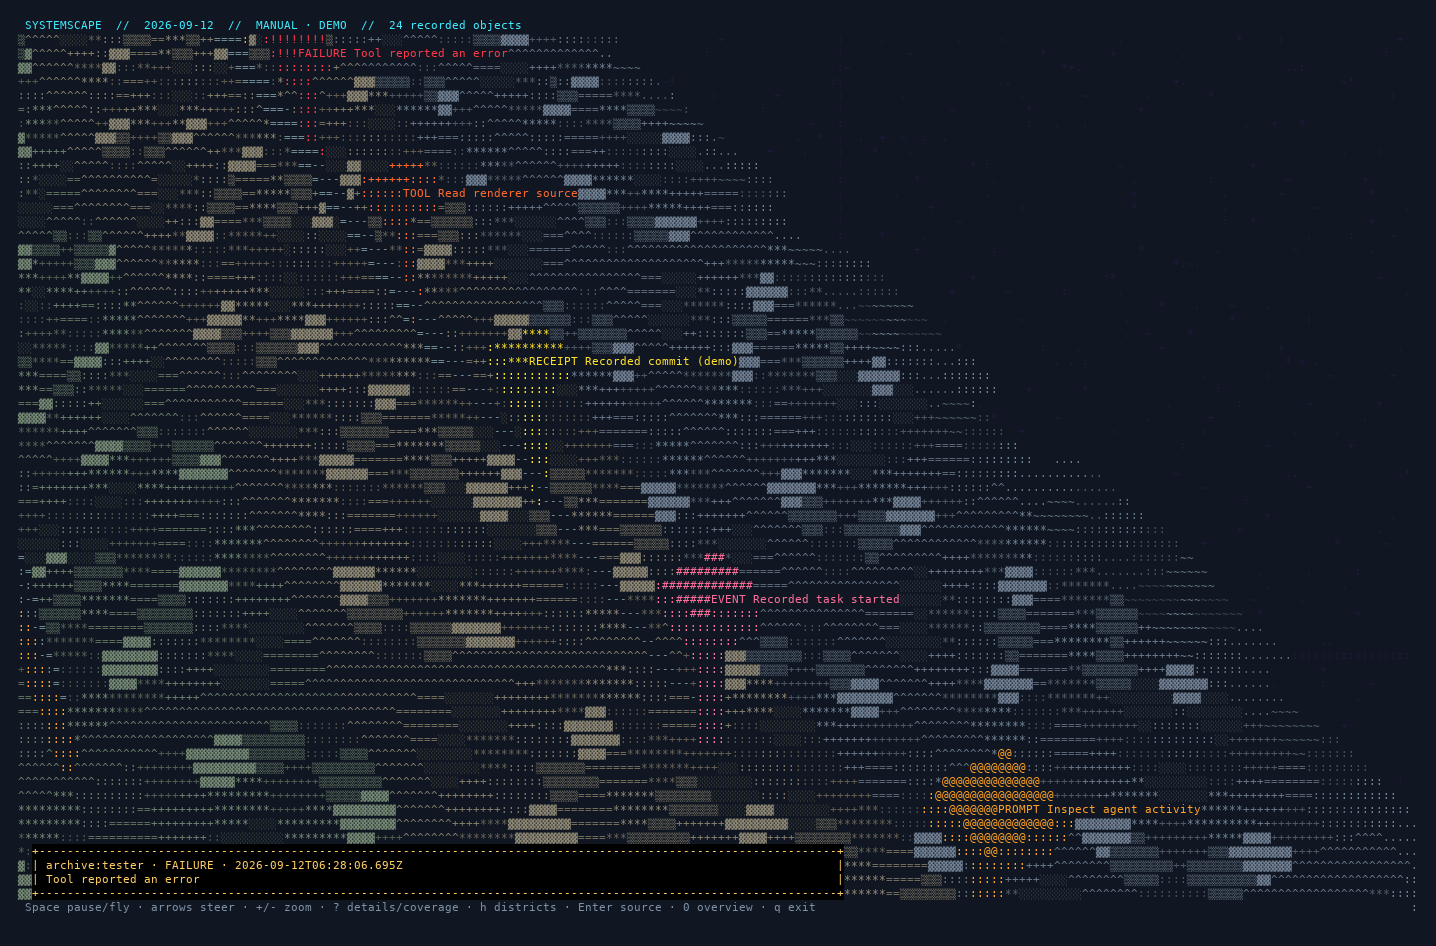
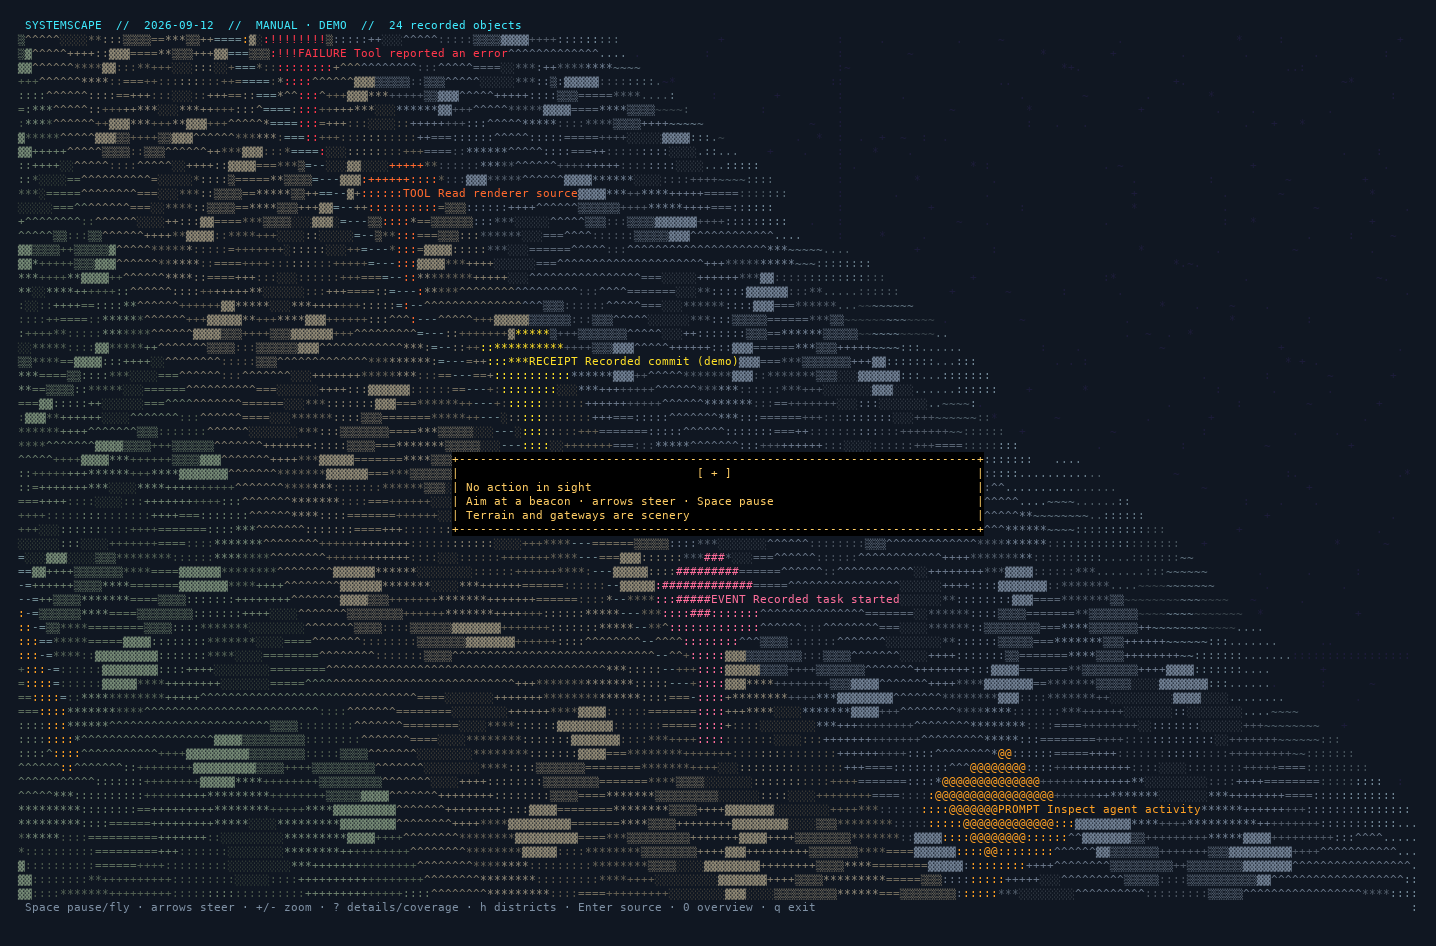
Add centre action reticule and buffered terminal row updates

Changed region(s): [[0.3064, 0.4598, 0.7047, 0.5825], [0.0, 0.8277, 0.6128, 0.9503], [0.1226, 0.6438, 0.1532, 0.6744]]

diff --git a/src/activity.rs b/src/activity.rs
@@ -7,7 +7,7 @@ use crate::{
 };
 use crossterm::event::{self, Event as Input, KeyCode, KeyEventKind, KeyModifiers};
 use std::collections::BTreeSet;
-use std::io::{self, IsTerminal, Write};
+use std::io::{self, IsTerminal};
 use std::path::PathBuf;
 use std::time::{Duration, Instant};
 
@@ -35,6 +35,7 @@ struct State {
     detail: bool,
     districts: bool,
     hud: bool,
+    aimed: Option<usize>,
 }
 
 struct Slice<'a> {
@@ -505,6 +506,7 @@ fn render(
     demo: bool,
 ) -> View {
     let data = slice(events, state);
+    state.aimed = None;
     let mut view = make_view(dims);
     let muted = Colour::rgb(126, 144, 164);
     let bright = Colour::rgb(204, 219, 235);
@@ -582,6 +584,28 @@ fn render(
             dims,
         )];
         view.draw(&viewport);
+        // Pick the closest projected action touching the small centre aperture.
+        // Depth breaks ties where several objects overlap the sight.
+        let centre = Vec2D::new(dims.0 as i64 / 2, dims.1 as i64 / 2);
+        state.aimed = data
+            .records
+            .iter()
+            .enumerate()
+            .filter_map(|(i, _)| {
+                let pos = world(position(&data, i));
+                let camera = viewport
+                    .camera_transform
+                    .mul_mat4(&rotation)
+                    .transform_point3(pos);
+                if camera.z <= 2.0 {
+                    return None;
+                }
+                let p = project(&viewport, rotation, pos);
+                ((p.x - centre.x).abs() <= 5 && (p.y - centre.y).abs() <= 2)
+                    .then_some((i, camera.z))
+            })
+            .min_by(|a, b| a.1.total_cmp(&b.1))
+            .map(|(i, _)| i);
         let mut labelled: Vec<Vec2D> = Vec::new();
         let mut candidates: Vec<_> = data
             .records
@@ -962,6 +986,7 @@ pub fn run(args: &[String]) -> io::Result<()> {
     let _terminal = crate::Terminal::enter()?;
     let mut next_poll = Instant::now() + POLL;
     let mut dirty = true;
+    let mut buffer = crate::FrameBuffer::default();
     let mut last_frame = Instant::now();
     loop {
         if !demo && Instant::now() >= next_poll {
@@ -993,24 +1018,29 @@ pub fn run(args: &[String]) -> io::Result<()> {
             // Build and publish a whole frame atomically to terminals supporting
             // synchronized updates (including tmux), avoiding half-painted terrain.
             let data = slice(&events, &mut state);
-            let panel = data
-                .records
-                .get(state.selected)
-                .filter(|_| !state.hud && !state.flat && view.width >= 80 && view.height >= 25)
-                .map(|e| {
-                    crate::black_panel(
-                        view.width,
-                        view.height,
-                        &[
-                            format!("{} · {} · {}", e.agent, e.kind.to_uppercase(), e.at),
-                            e.text.clone(),
-                        ],
-                    )
-                })
-                .unwrap_or_default();
-            let frame = format!("\x1b[?2026h{view}{panel}\x1b[?2026l");
-            io::stdout().write_all(frame.as_bytes())?;
-            io::stdout().flush()?;
+            let panel = if !state.hud && !state.flat && view.width >= 40 && view.height >= 15 {
+                let w = view.width.saturating_sub(4).min(76);
+                let sight = format!("{}[ + ]", " ".repeat((w - 9) / 2));
+                let lines = if let Some(e) = state.aimed.and_then(|i| data.records.get(i)) {
+                    vec![
+                        sight,
+                        format!("{} · {}", e.agent, e.kind.to_uppercase()),
+                        e.text.clone(),
+                        format!("{} · Enter source", e.at),
+                    ]
+                } else {
+                    vec![
+                        sight,
+                        "No action in sight".into(),
+                        "Aim at a beacon · arrows steer · Space pause".into(),
+                        "Terrain and gateways are scenery".into(),
+                    ]
+                };
+                crate::panel_at((view.width - w) / 2 + 1, view.height / 2, w, &lines)
+            } else {
+                String::new()
+            };
+            buffer.present(&view, &panel)?;
             dirty = false;
         }
         if !event::poll(Duration::from_millis(FRAME_MS))? {
@@ -1075,6 +1105,9 @@ pub fn run(args: &[String]) -> io::Result<()> {
                     KeyCode::Char('f') => state.flat = !state.flat,
                     KeyCode::Char('h') => state.districts = !state.districts,
                     KeyCode::Enter => {
+                        if let Some(i) = state.aimed {
+                            state.selected = i;
+                        }
                         state.detail = !state.detail;
                         state.hud = true;
                     }
@@ -1098,6 +1131,26 @@ pub fn run(args: &[String]) -> io::Result<()> {
 #[cfg(test)]
 mod tests {
     use super::*;
+    #[test]
+    fn reticule_finds_aimed_action_and_clears_in_flat_view() {
+        let events = crate::activity_data::demo_events();
+        let mut state = State {
+            zoom: 40.0,
+            pitch: -8.0,
+            ..State::default()
+        };
+        let data = slice(&events, &mut state);
+        state.focus = world(position(&data, 0));
+        render(&events, "fixture", &mut state, (120, 40), true);
+        assert!(
+            state.aimed.is_some(),
+            "aiming at a beacon must expose its summary"
+        );
+        state.flat = true;
+        render(&events, "fixture", &mut state, (120, 40), true);
+        assert_eq!(state.aimed, None);
+    }
+
     #[test]
     fn flight_clips_every_polygon_to_camera_and_screen_bounds() {
         let events = crate::activity_data::demo_events();

diff --git a/src/main.rs b/src/main.rs
@@ -557,9 +557,12 @@ fn black_panel(width: usize, height: usize, lines: &[String]) -> String {
     if w < 6 || height < lines.len() + 5 {
         return String::new();
     }
-    let y = height - lines.len() - 2;
+    panel_at(3, height - lines.len() - 2, w, lines)
+}
+
+fn panel_at(x: usize, y: usize, w: usize, lines: &[String]) -> String {
     let mut out = format!(
-        "\x1b[{y};3H\x1b[48;2;0;0;0m\x1b[38;2;255;205;100m+{}+",
+        "\x1b[{y};{x}H\x1b[48;2;0;0;0m\x1b[38;2;255;205;100m+{}+",
         "-".repeat(w - 2)
     );
     for (i, line) in lines.iter().enumerate() {
@@ -569,18 +572,60 @@ fn black_panel(width: usize, height: usize, lines: &[String]) -> String {
             .take(w - 4)
             .collect();
         out.push_str(&format!(
-            "\x1b[{};3H| {}{} |",
+            "\x1b[{};{x}H| {}{} |",
             y + i + 1,
             text,
             " ".repeat(w - 4 - text.chars().count())
         ));
     }
     out.push_str(&format!(
-        "\x1b[{};3H+{}+\x1b[0m",
+        "\x1b[{};{x}H+{}+\x1b[0m",
         y + lines.len() + 1,
         "-".repeat(w - 2)
     ));
     out
+}
+
+/// Front/back row buffers avoid erasing the terminal between completed frames.
+#[derive(Default)]
+struct FrameBuffer {
+    front: Vec<String>,
+    dims: (usize, usize),
+}
+impl FrameBuffer {
+    fn present(&mut self, view: &View, overlay: &str) -> std::io::Result<()> {
+        use std::io::Write;
+        let rendered = format!("{view}");
+        let body = rendered
+            .split_once("\x1b[H\x1b[J")
+            .map_or(rendered.as_str(), |(_, body)| body);
+        let back: Vec<String> = body
+            .split("\r\n")
+            .take(view.height)
+            .map(str::to_owned)
+            .collect();
+        let resized = self.dims != (view.width, view.height);
+        let mut output = String::from("\x1b[?2026h");
+        if resized {
+            output.push_str("\x1b[2J");
+        }
+        for (y, row) in back.iter().enumerate() {
+            // Restore overlay regions before compositing this frame's panel.
+            let overlay_row =
+                y >= view.height.saturating_sub(9) || y.abs_diff(view.height / 2) <= 6;
+            if resized || overlay_row || self.front.get(y) != Some(row) {
+                output.push_str(&format!("\x1b[{};1H\x1b[0m{row}", y + 1));
+            }
+        }
+        output.push_str(overlay);
+        output.push_str("\x1b[0m\x1b[?2026l");
+        let mut stdout = std::io::stdout().lock();
+        stdout.write_all(output.as_bytes())?;
+        stdout.flush()?;
+        self.front = back;
+        self.dims = (view.width, view.height);
+        Ok(())
+    }
 }
 
 fn main() {
@@ -648,6 +693,7 @@ fn main() {
     let mut theta: f64 = 0.0;
     let mut spin = true;
     let mut frame: u64 = 0;
+    let mut buffer = FrameBuffer::default();
     let slot_frames = (SLOT_SECS * f64::from(FPS)) as u64; // frames per history bar
 
     loop {
@@ -681,7 +727,6 @@ fn main() {
             dims = now_dims;
             view = make_view(dims);
             viewport.canvas_centre = view.center();
-            print!("\x1b[2J");
         }
 
         if frame > 0 && frame.is_multiple_of(u64::from(POLL_FRAMES)) {
@@ -721,10 +766,7 @@ fn main() {
             "CPU° · GPU° · DISK° · PWR · LOAD · MEM · IO · NET | height = normalised peak".into(),
             "2h history · 150s/bar · newest right · terrain decorative · Space pause/fly · arrows steer · q exit".into(),
         ]);
-        use std::io::Write;
-        let rendered = format!("\x1b[?2026h{view}{panel}\x1b[?2026l");
-        let _ = std::io::stdout().write_all(rendered.as_bytes());
-        let _ = std::io::stdout().flush();
+        let _ = buffer.present(&view, &panel);
         let _ = gameloop::sleep_fps(FPS, None);
     }
 }

diff --git a/scripts/terminal-smoke.py b/scripts/terminal-smoke.py
@@ -23,6 +23,7 @@ try:
     time.sleep(0.5)
     first = capture()
     assert 'FLYING TOUR' in first
+    assert '[ + ]' in first, 'centre reticule missing'
     time.sleep(1.2)
     assert capture() != first, 'tour camera did not move'
     tmux('send-keys', '-t', 'test:0', 'Left')

diff --git a/README.md b/README.md
@@ -54,8 +54,10 @@ than the original view. It completes a circuit in roughly fifty-two seconds,
 with a changing altitude of 30–46 world units and a moderately downward forward-looking camera.
 Tall pastel gateways, information towers and varied glyph textures provide motion
 and depth cues. Record selection advances every four seconds across pages,
-agent districts and days. Nearby objects carry floating labels; the selected action has a descriptive black panel.
+agent districts and days. Nearby objects carry floating labels; a centre reticule describes the nearest action within its small aiming aperture on an opaque black panel. Empty sights say so; Enter opens the aimed action’s source.
 Telemetry uses the same textured pastel terrain, flight path and opaque readings panel.
+Both views compare front/back row buffers and publish changed rows in synchronized
+terminal updates, avoiding a full-screen erase between frames.
 Both views use 24-bit RGB shading with muted pastel terrain and vivid warm data highlights. Navigation
 keys pause the tour; Space resumes it. Select a record to inspect its project,
 session and source file. Lines describe
